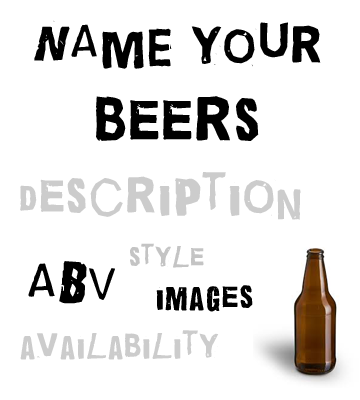
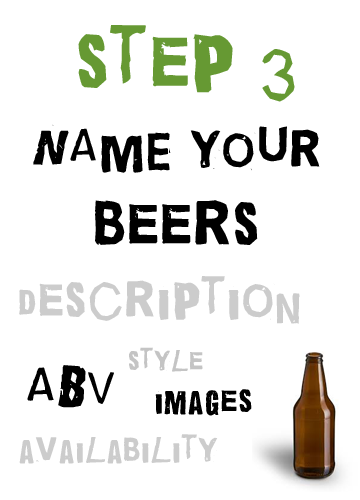
changes to responsive layout

Changed region(s): [[0.0306, 0.39, 0.9472, 0.99], [0.0917, 0.03, 0.8861, 0.21], [0.0917, 0.24, 0.8861, 0.36]]

diff --git a/app/css/app.css b/app/css/app.css
@@ -1,4 +1,4 @@
-.debug-router{
+background-size.debug-router{
     width: 100%;
     text-align: center
 }
@@ -18,12 +18,13 @@
 
 /*Home page*/
 
-/* Main page panel image bg 1 & 2  */
+/* Main page panel image bg 1, 2 & 3 */
 
 .imagebg0{
-/*    background: url(./../img/signup.png) no-repeat;
-*/    height: 400px;
+   background: url(./../img/signup.png) no-repeat;
+   height: 400px;
     width: 100%
+    margin-top:20px;
 }
 
 .imagebg1{
@@ -38,8 +39,14 @@
     width: 100%;
 }
 
+.panel-body {
+    padding: 15px;
+    margin-top: 20px;
+    height: 500px;
+}
 
-/* Main page panel image bg 1 & 2 */
+
+/* Main page panel image bg 1 , 2 & 3 */
 
 legend {
     display: block;
@@ -50,7 +57,6 @@ legend {
     line-height: inherit;
     color: #333;
     border: 0;
-    /* border-bottom: 1px solid #e5e5e5; */
 }
 
 /*form edit*/
@@ -87,7 +93,6 @@ legend {
   
 }
 
-
 /*log in page input fields */
 
 .form-control-login {
@@ -122,16 +127,16 @@ legend {
     margin-right:-4px;
 }
 
-.btn-centered {
-    position:absolute;
-    top: center;
+.btn-lg-bottom{
+    position: absolute;
+    bottom: 110px;
+    left: 80px;
 }
 
 /*main home page slider below*/
 
 .fill {
 	height: 500px!important;
-
 }
 
 #carousel1{
@@ -140,8 +145,6 @@ legend {
     height: 100%;
     background-size: cover;
 
-    /*-webkit-clip-path: polygon(100% 0, 0 100%, 0 0);
-	clip-path: polygon(100% 0, 0 100%, 0 0);*/
 }
 
 #carousel2{
@@ -149,9 +152,6 @@ legend {
     width: 100%;
     height: 100%;
     background-size: cover;
-
-    /*-webkit-clip-path: polygon(100% 0, 0 100%, 0 0);
-    clip-path: polygon(100% 0, 0 100%, 0 0);*/
 }
 
 #carousel3{
@@ -159,25 +159,13 @@ legend {
     width: 100%;
     height: 100%;
     background-size: cover;
-
-    /*-webkit-clip-path: polygon(100% 0, 0 100%, 0 0);
-    clip-path: polygon(100% 0, 0 100%, 0 0);*/
 }
-
 
 .logo1 {
 	position: absolute;
 	top:0;
 	right:0;
 }
-
-@media(max-width:767px) {
-    #carousel1 {
-    	/*background: url(./../img/overlaygreen.png) right bottom no-repeat;*/
-/*        width:!auto;
-       vertical-align: center;*/
-
-    }
 
 /*main home page slider logo*/
 
@@ -193,7 +181,7 @@ legend {
 /* single item view image holders */
 
 /*
- * ==== Losange shape image holder
+ * ==== Losange shape image holder on brewery listing subpages
  */
 
 .losange, .losange div {
@@ -220,8 +208,7 @@ legend {
   height: auto;
 }
 
-
-/* sign up and edit pages backgound logo */
+/* sign up and edit pages backgound pic edit */
 
 .logosignup {
     position: absolute;
@@ -239,8 +226,7 @@ legend {
         }
 }
 
-/* sign up and edit pages glass */
-
+/* sign up and edit pages glass pic backround */
 
 .carousel-caption {
     position: absolute;
@@ -280,7 +266,7 @@ legend {
 
 @media(max-width:900px) {
     .carousel-caption h1 {
-    	font-size: 6em;
+    	font-size: 3em;
     	padding-top: 46px;
 
     }
@@ -339,40 +325,47 @@ legend {
     text-align: center;
 }
 
-@media(max-width: 800px){
+@media(max-width: 400px){
 .panel-body {
-    padding: 20px;
+    margin-top: 0px;
+    height: 275px;
 }
 
-@media(max-width: 800px){
-.imagebg1{
-    background: url(./../img/brewerysignupblock.png) center no-repeat;
-    width: 100%; 
+/*home page content responsive*/
 
-}
-
-
-@media(max-width: 800px){
-.imagebg2{
-    background: url(./../img/beerssignupblock.png) center no-repeat;
+ @media(max-width: 400px){
+.imagebg0{
+    background: url(./../img/signupresponsive.png) center no-repeat;
+    background-size: contain;
     width: 100%;
+    padding: 10px; 
 }
 
 @media(max-width: 400px){
 .imagebg1{
-    background: url(./../img/brewerysignupblock.png) center no-repeat;
+    background: url(./../img/step2brewweriesresponsive.png) center no-repeat;
+    background-size: contain;
     width: 100%;
+    
     padding: 10px; 
 
 }
 
-
 @media(max-width: 400px){
 .imagebg2{
-    background: url(./../img/beerssignupblock.png) center no-repeat;
+    background: url(./../img/step3beersresponsive.png) center no-repeat;
+    background-size: contain;
     width: 100%;
+    
     padding: 10px; 
 
+}
+
+@media{
+.btn-lg-bottom {
+    position: absolute;
+    bottom: 5px;
+    left: 80px;
 }
 
 /*mobile size form logo*/
@@ -387,8 +380,6 @@ legend {
     display: none;
         }
 }
-
-
 /*to align breweries and beer headers*/
 
 .img-portfolio h3{

diff --git a/app/partials/home.html b/app/partials/home.html
@@ -58,48 +58,29 @@
 
             <div class="col-lg-12 texttitle">
                 <h1>Sign up your brewery in 3 easy steps</h1>
-                <div class="spacertop"></br></div>
-            </div>
-
-                <div class="spacertop"></br></div>
-
-                    <div class="spacertop col-md-4">
-                        <div class="panel panel-default">
-                            <div class="panel-heading">
-                                  <h4><i class="fa fa-pencil-square-o"></i> &nbsp Sign up</h4>
-
-                            </div>
-                            <div class="panel-body col">
-                                <img src="img/signup.png">
-                                <p>Quickly sign up to our site it takes a few minutes.</p>
-                                <a ui-sref="editUsers" class="btn btn-success btn-lg">Sign Up Here</a>
-                            </div>
-                        </div>
-                    </div>
-                    <div class="col-md-4">
-                        <div class="panel panel-default">
-                            <div class="panel-heading">
-                                <h4>Add your Brewery</h4>
-                            </div>
-                            <div class="panel-body imagebg1">
+                
+                        <div class="col-md-4">
+                            <div class="panel-body text-center imagebg0">
                                 
+                                <a ui-sref="editUsers" class="btn btn-success btn-lg-bottom ">Sign Up Here</a>
                             </div>
-                        </div>
-                    </div>
-                    <div class="col-md-4">
-                        <div class="panel panel-default">
-                            <div class="panel-heading">
-                                <h4>Add your Beers</h4>
+                        </div>    
+                    
+                            <div class="col-md-4">
+                             
+                                 <div class="panel-body imagebg1"></div>
+                                        
                             </div>
-                            <div class="panel-body imagebg2">
+                        
+                            <div class="col-md-4">
+                       
+                            <div class="panel-body imagebg2"></div>
                             
                             </div>
-                    </div>
+             
                 </div>
-            </div>
-        <!-- /.row -->
-  </div>
-
+          </div>                
+    </div>
 
     <!-- jQuery -->
 
